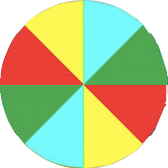
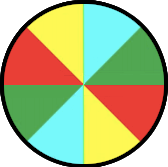
Add animation for if control panel solediod is extended

diff --git a/src/ui.js b/src/ui.js
@@ -206,11 +206,26 @@ NetworkTables.addKeyListener('/Controllers/panelSpinner/isSpinningRotation', (_,
 });
 
 NetworkTables.addKeyListener('/Controllers/panelSpinner/isSpinningPosition', (_, value, __) => {
-    console.log(value);
     if (value) {
         controlPanelImg.classList.add('spinningPos');
     } else {
         controlPanelImg.classList.remove('spinningPos');
+    }
+});
+
+NetworkTables.addKeyListener('/components/controlpanel/ntSolenoid_state', (_, value, __) => {
+    if (value == true) {
+        controlPanelImg.classList.add('expandPanel');
+        setTimeout(() => {
+            controlPanelImg.style.transform = 'scale(1, 1)';
+            controlPanelImg.classList.remove('expandPanel');
+        }, 1000)
+    } else {
+        controlPanelImg.classList.add('shrinkPanel');
+        setTimeout(() => {
+            controlPanelImg.style.transform = 'scale(0.1, 0.1)';
+            controlPanelImg.classList.remove('shrinkPanel');
+        }, 1000)
     }
 });
 

diff --git a/src/css/ui.css b/src/css/ui.css
@@ -33,6 +33,7 @@ body > * {
 }
 
 #controlPanelImg {
+    align-content: center;
     position: absolute;
     bottom: 130px;
     height: 100px;
@@ -350,12 +351,20 @@ body.enabled > svg {
     animation: spin-color-panel-Pos 1s infinite forwards;
 }
 
-@keyframes spin-color-panel-Rot {
+.expandPanel {
+    animation: expand-color-panel 1s linear normal;
+}
+
+.shrinkPanel {
+    animation: expand-color-panel 1s linear reverse;
+}
+
+@keyframes expand-color-panel {
     from {
-        transform: rotate(0deg);
+        transform: scale(0.1, 0.1);
     }
     to {
-        transform: rotate(360deg);
+        transform: scale(1, 1);
     }
 }
 
@@ -370,4 +379,13 @@ body.enabled > svg {
         transform: rotate(-22.5deg);
     }
 
+}
+
+@keyframes spin-color-panel-Rot {
+    from {
+        scale: 10%;
+    }
+    to {
+        scale: 100%;
+    }
 }
